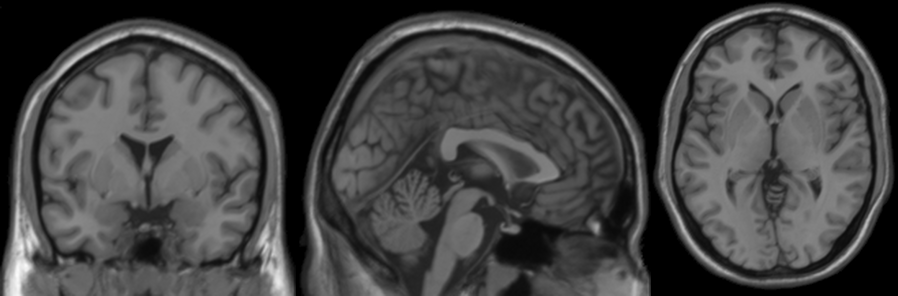
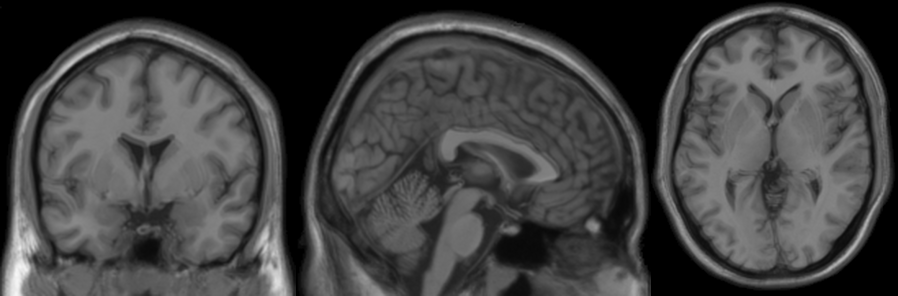
Increased motion translate

diff --git a/mriaug/core.py b/mriaug/core.py
@@ -134,7 +134,7 @@ def ringing3d(x: Tensor, intensity: (int, float, Tensor) = .5, frequency: float 
     return modify_k_space(x, gain)
 
 
-def motion3d(x: Tensor, intensity: (int, float, Tensor) = .4, translate: (float, Tensor) = .01) -> Tensor:
+def motion3d(x: Tensor, intensity: (int, float, Tensor) = .4, translate: (float, Tensor) = .02) -> Tensor:
     if not isinstance(translate, Tensor):
         translate = translate * ones((len(x), 3), dtype=x.dtype, device=x.device)
     offset = to_ndim(intensity, x.ndim) * fft.fftn(translate3d(x, translate=translate, mode='nearest'), s=x.shape[-3:])
